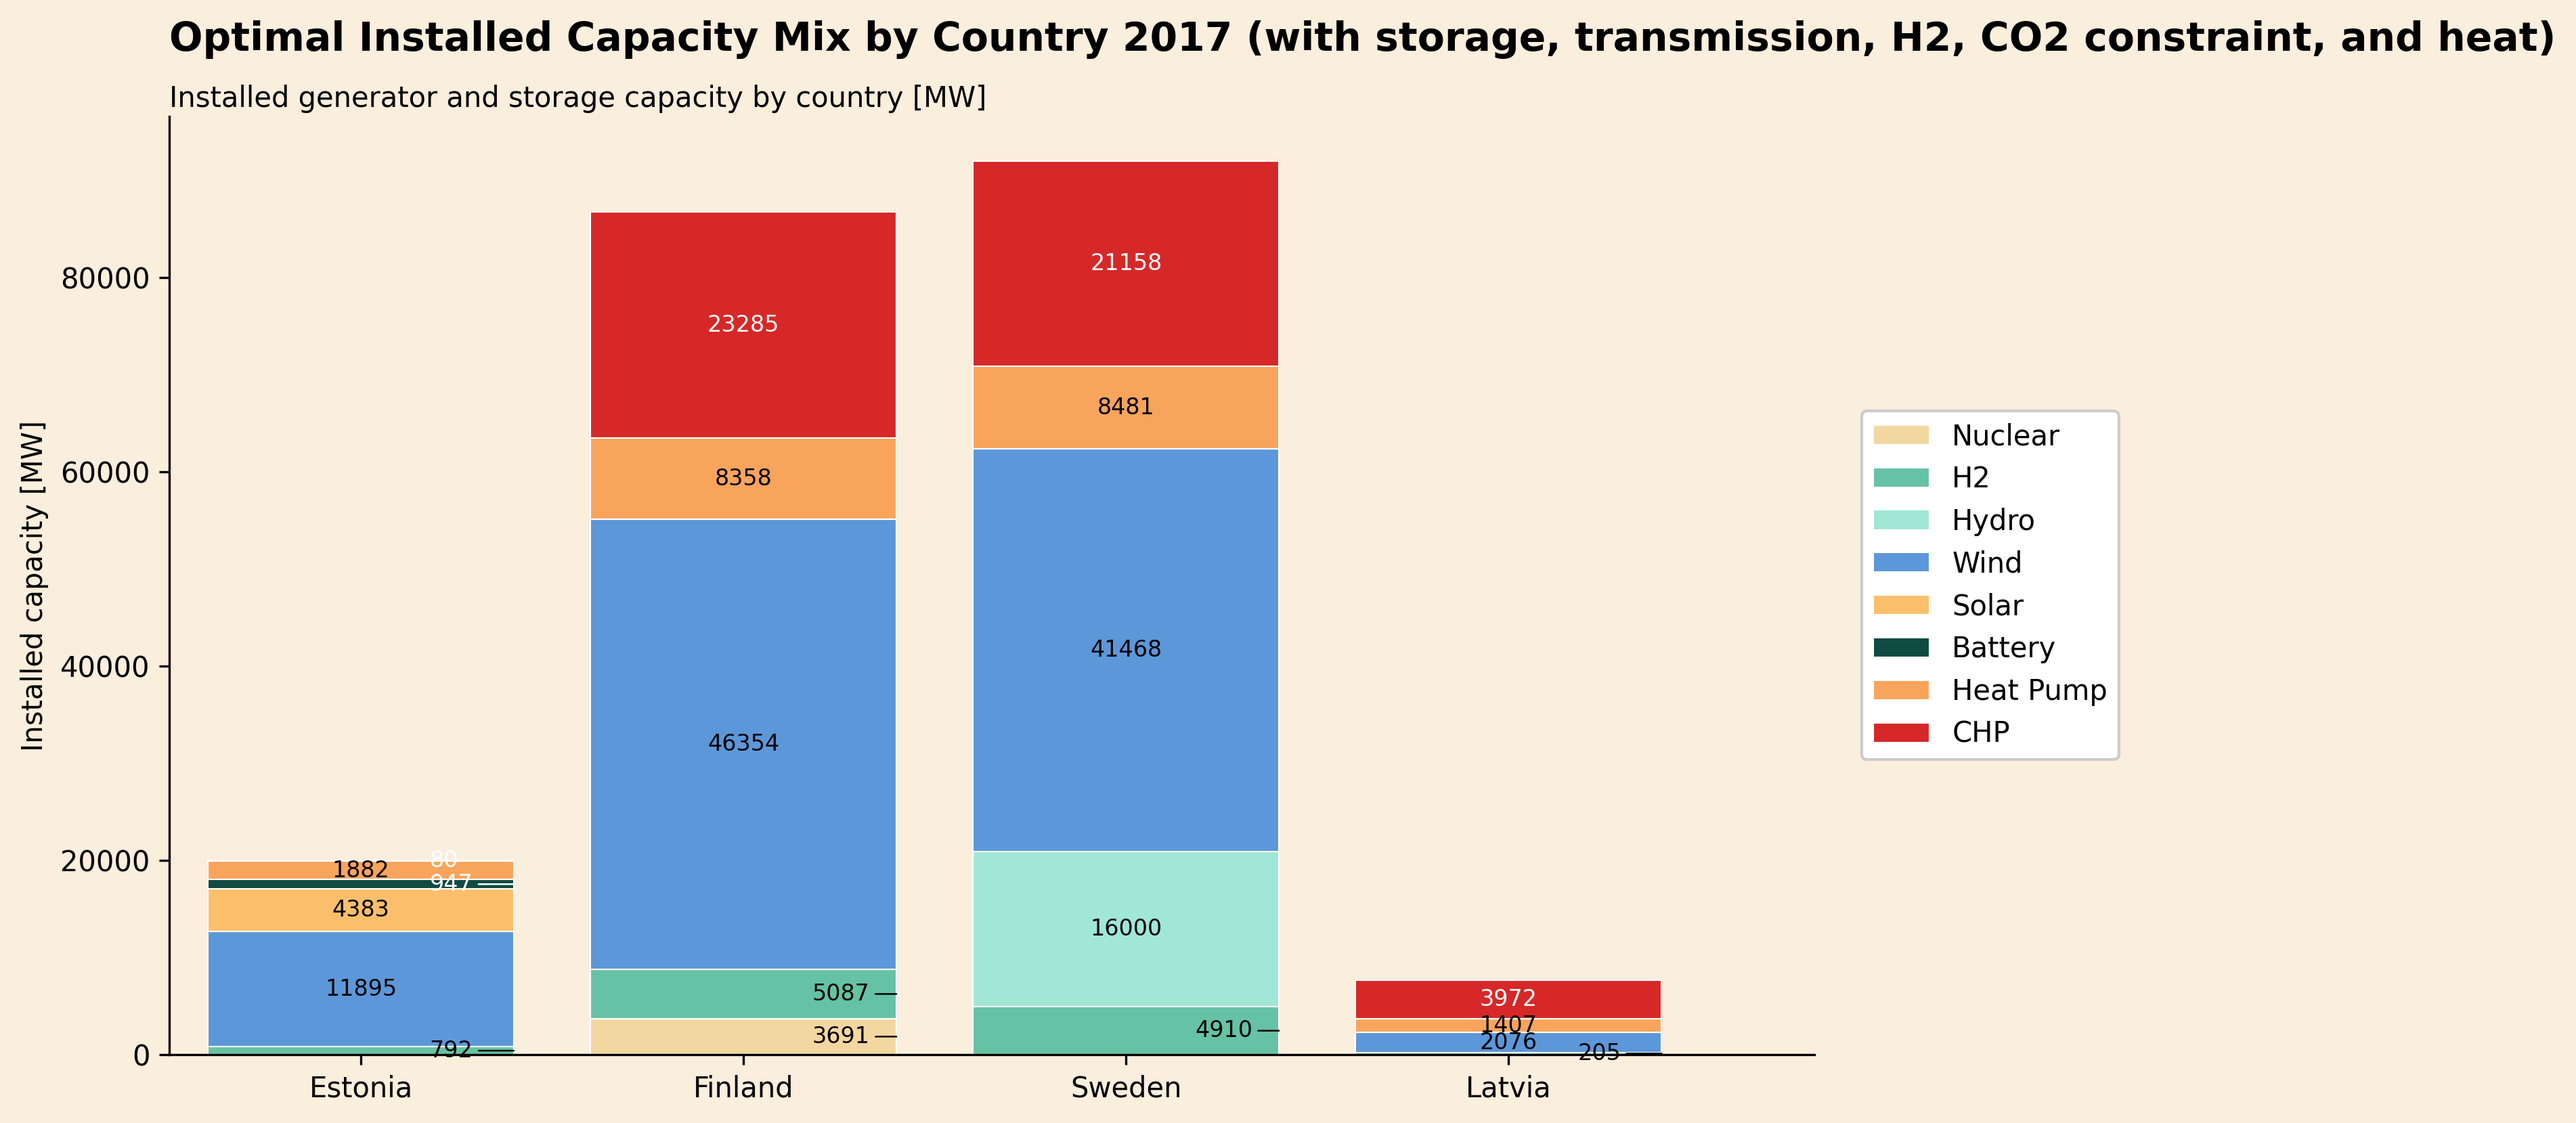
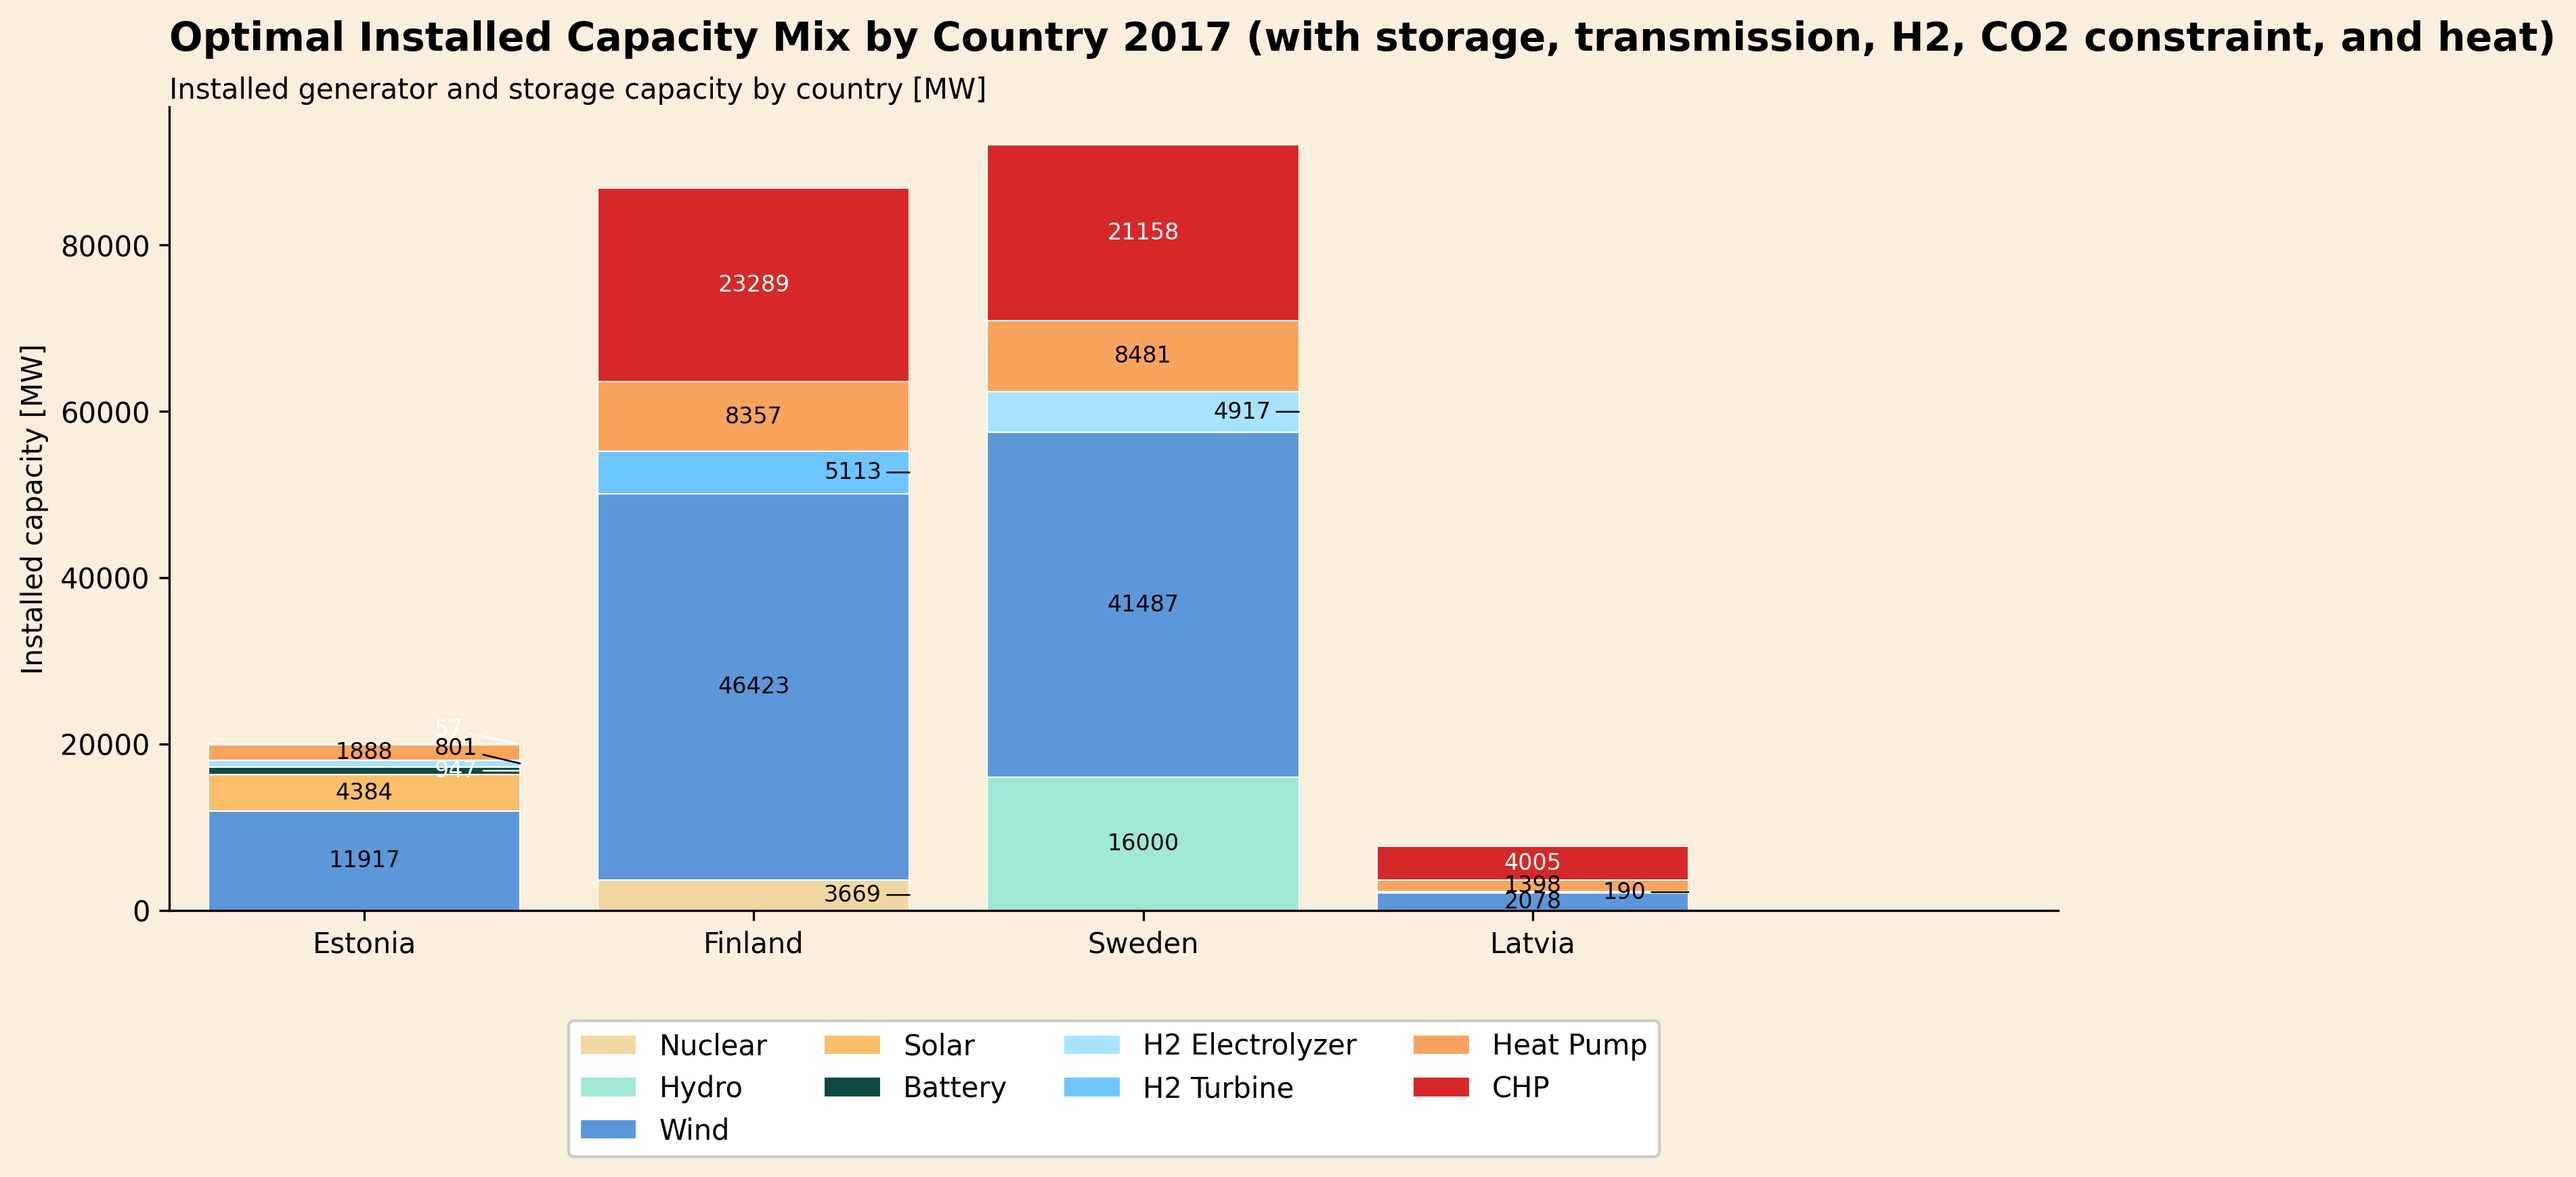
added hydrogen cost analysis

diff --git a/network.py b/network.py
@@ -16,7 +16,9 @@ class Network():
         self.cop = cop
         self.hours = hours
     
-    def build_network(self, storage=False, transmission=False, external=False, gas=False, h2=False, co2_limit=False, limit=None, h2_storage_cap_mwh=None, heat=None):
+    def build_network(self, storage=False, transmission=False, external=False, gas=False, h2=False, co2_limit=False, limit=None, 
+                      h2_storage_cap_mwh=None,  heat=None, 
+                      overnight_cost_electrolyzer=600_000, overnight_cost_h2_turbine=700_000, overnight_cost_h2_storage=25_000):
 
         # PyPSA requires timezone-naive snapshots.
         snapshots = pd.DatetimeIndex(self.hours)
@@ -107,7 +109,10 @@ class Network():
         if gas:
             self.add_gas_network()
         if h2:
-            self.add_h2_network_with_conversion(h2_storage_cap_mwh=h2_storage_cap_mwh)
+            self.add_h2_network_with_conversion(h2_storage_cap_mwh=h2_storage_cap_mwh, 
+                                                overnight_cost_electrolyzer=overnight_cost_electrolyzer, 
+                                                overnight_cost_h2_turbine=overnight_cost_h2_turbine, 
+                                                overnight_cost_h2_storage=overnight_cost_h2_storage)
         if co2_limit:
             self.add_co2_limit(limit)
         if heat:
@@ -364,7 +369,7 @@ class Network():
             constant=limit  # total CO2 limit (e.g. in tonnes)
         )
 
-    def add_h2_network_with_conversion(self, h2_storage_cap_mwh=None):
+    def add_h2_network_with_conversion(self, h2_storage_cap_mwh=None, overnight_cost_electrolyzer=600_000, overnight_cost_h2_turbine=700_000, overnight_cost_h2_storage=25_000):
 
         countries = ["Estonia", "Latvia", "Sweden", "Finland"]
 
@@ -397,12 +402,12 @@ class Network():
         # --- Hydrogen system CAPEX assumptions (2017-based, EU-consistent) ---
         
 
-        capital_cost_electrolyzer = annuity(20, 0.07) * 600_000 * (1 + 0.033)   # €/MW-year
+        capital_cost_electrolyzer = annuity(20, 0.07) * overnight_cost_electrolyzer * (1 + 0.033)   # €/MW-year
 
-        capital_cost_h2_turbine = annuity(25, 0.07) * 700_000 * (1 + 0.033)     # €/MW-year
+        capital_cost_h2_turbine = annuity(25, 0.07) * overnight_cost_h2_turbine * (1 + 0.033)     # €/MW-year
         # (hydrogen gas turbine, based on 500–900 USD/kW range)
 
-        h2_storage_capital_cost = annuity(30, 0.07) * 25_000 * (1 + 0.033)      # €/MWh_H2-year
+        h2_storage_capital_cost = annuity(30, 0.07) * overnight_cost_h2_storage * (1 + 0.033)      # €/MWh_H2-year
         # (~1000 USD/kg H2 ≈ 25,000 €/MWh)
         
         capital_cost_h2_pipeline = 1 #annuity(40, 0.07) * 100_000 * (1 + 0.033)
@@ -1049,12 +1054,50 @@ if __name__ == "__main__":
     # co2_price = network.network.global_constraints.mu
     # print(co2_price)
     
-    # i) Heat network analysis
-    network = Network(load, wind_cf, solar_cf, hours=hours, heat_demand=heat_demand, cop=cop)
-    network.build_network(storage=True, transmission=True, external=True, heat=True)
-    network.optimize_network()
-    dispatch, capacities = network.save_results()
-    plot_capacity_mix_by_country(capacities, f"Optimal Installed Capacity Mix by Country 2017 (with Storage, Transmission and Heat)", show=False, save=True)
+    # # i) Heat network analysis
+    # network = Network(load, wind_cf, solar_cf, hours=hours, heat_demand=heat_demand, cop=cop)
+    # network.build_network(storage=True, transmission=True, external=True, heat=True)
+    # network.optimize_network()
+    # dispatch, capacities = network.save_results()
+    # plot_capacity_mix_by_country(capacities, f"Optimal Installed Capacity Mix by Country 2017 (with Storage, Transmission and Heat)", show=False, save=True)
     
+    # j) Hydrogen network analysis
     
+    over_night_cost_electrolyzer = 600_000
+    over_night_cost_h2_turbine = 700_000
+    over_night_cost_h2_storage = 25_000
     
+    electrolyzer_scenarios = [over_night_cost_electrolyzer*0.5, over_night_cost_electrolyzer*0.25, over_night_cost_electrolyzer*0.05]
+    h2_turbine_scenarios = [over_night_cost_h2_turbine*0.5, over_night_cost_h2_turbine*0.25, over_night_cost_h2_turbine*0.05]
+    h2_storage_scenarios = [over_night_cost_h2_storage*0.5, over_night_cost_h2_storage*0.25, over_night_cost_h2_storage*0.05]
+    
+    scenario_labels = ["50% reduction", "75% reduction", "95% reduction"]
+    results = []
+        
+    for scenario in range(len(electrolyzer_scenarios)):
+        
+        network = Network(load, wind_cf, solar_cf, hours=hours, heat_demand=heat_demand, cop=cop)
+
+        network.build_network(storage=True, 
+                              transmission=True, 
+                              external=True, 
+                              h2=True, heat=True,
+                              overnight_cost_electrolyzer=electrolyzer_scenarios[scenario], 
+                              overnight_cost_h2_turbine=h2_turbine_scenarios[scenario], 
+                              overnight_cost_h2_storage=h2_storage_scenarios[scenario])
+        
+        network.optimize_network()
+        
+        dispatch, capacities = network.save_results()
+        
+        results.append(
+             {"scenario": scenario_labels[scenario],
+            "electrolyzer_cost": electrolyzer_scenarios[scenario],
+            "h2_turbine_cost": h2_turbine_scenarios[scenario],
+            "h2_storage_cost": h2_storage_scenarios[scenario],
+            "dispatch": dispatch,
+            "capacities": capacities,
+            }          
+             )
+
+    plot_h2_scenarios_by_country(results, f"Optimal Installed Capacity Mix by Country 2017 under Different Hydrogen Cost Scenarios", show=True, save=False)

diff --git a/main.py b/main.py
@@ -5,13 +5,14 @@ from network import Network
 from helper import *
 
 ### SECTION CONTROLS ###
-RUN_A_C = True # with and without storage single node 
+RUN_A_C = False # with and without storage single node 
 RUN_D = False # + transmission 
 RUN_E = False # imbalances
 RUN_F = False # CO2 limit analysis
 RUN_G = False # H2 network
 RUN_H = False # CO2 constraint
-RUN_I = False # heat sector
+RUN_I = False  # heat sector
+RUN_J = True  # sensitivity analysis on hydrogen technology costs
 
 ### LOADING DATA ###
 
@@ -404,9 +405,7 @@ if RUN_I:
     network.optimize_network()
     dispatch, capacities = network.save_results()
     
-    plot_capacity_mix_by_country_heat(capacities, f"Optimal Installed Capacity Mix by Country 2017 ({scenario_label})", show=False, save=True)
-    
-    plot_heat_dispatch(time_index=january_week,df=dispatch[january_week_mask],heat_demand=heat_demand["EE"][january_week_mask],node="Estonia",title=f"Estonia Heat Dispatch ({scenario_label})",show=False,save=True)
+    plot_capacity_mix_by_country(capacities, f"Optimal Installed Capacity Mix by Country 2017 ({scenario_label})", show=False, save=True)
     
     h2_pipeline_capacities = network.network.links.loc[
     network.network.links.index.str.contains("H2 Pipeline"),
@@ -416,3 +415,47 @@ if RUN_I:
     print("--------------------------------------------------------")
     print(f"Total H2 pipeline capacity installed: {h2_pipeline_capacities:.1f} MW")
     print("--------------------------------------------------------")
+
+if RUN_J:
+    
+    # j) Sensitivity analysis on hydrogen technology costs
+    
+    over_night_cost_electrolyzer = 600_000
+    over_night_cost_h2_turbine = 700_000
+    over_night_cost_h2_storage = 25_000
+    
+    electrolyzer_scenarios = [over_night_cost_electrolyzer*0.50, over_night_cost_electrolyzer*0.25, over_night_cost_electrolyzer*0.05]
+    h2_turbine_scenarios = [over_night_cost_h2_turbine*0.50, over_night_cost_h2_turbine*0.25, over_night_cost_h2_turbine*0.05]
+    h2_storage_scenarios = [over_night_cost_h2_storage*0.50, over_night_cost_h2_storage*0.25, over_night_cost_h2_storage*0.05]
+    
+    scenario_labels = ["50% reduction", "75% reduction", "95% reduction"]
+    results = []
+        
+    for scenario in range(len(electrolyzer_scenarios)):
+        
+        network = Network(load, wind_cf, solar_cf, hours=hours, heat_demand=heat_demand, cop=cop)
+
+        network.build_network(storage=True, 
+                              transmission=True, 
+                              external=True, 
+                              h2=True, heat=True,
+                              overnight_cost_electrolyzer=electrolyzer_scenarios[scenario], 
+                              overnight_cost_h2_turbine=h2_turbine_scenarios[scenario], 
+                              overnight_cost_h2_storage=h2_storage_scenarios[scenario])
+        
+        network.optimize_network()
+        
+        dispatch, capacities = network.save_results()
+        
+        results.append(
+             {"scenario": scenario_labels[scenario],
+            "electrolyzer_cost": electrolyzer_scenarios[scenario],
+            "h2_turbine_cost": h2_turbine_scenarios[scenario],
+            "h2_storage_cost": h2_storage_scenarios[scenario],
+            "dispatch": dispatch,
+            "capacities": capacities,
+            }          
+             )
+
+    
+    plot_h2_scenarios_by_country(results, f"Optimal Installed Capacity Mix by Country 2017 under Different Hydrogen Cost Scenarios", show=False, save=True)

diff --git a/plotter.py b/plotter.py
@@ -1265,6 +1265,98 @@ def plot_h2_capacity_mix_by_country(network, title, show=False, save=True):
 
     if show:
         plt.show()
+
+
+def plot_h2_scenarios_by_country(results, title, show=False, save=True):
+
+    colors, background_color = color_palette()
+
+    countries = ["Estonia", "Finland", "Sweden", "Latvia"]
+    scenario_labels = [r["scenario"] for r in results]
+
+    # Initialize data containers
+    techs = ["Electrolyzer", "H2 Turbine", "H2 Storage"]
+    data = {
+        tech: pd.DataFrame(0.0, index=countries, columns=scenario_labels)
+        for tech in techs
+    }
+
+    # Fill data
+    for result in results:
+        scen = result["scenario"]
+        capacities = result["capacities"]
+
+        for asset_name, row in capacities.iterrows():
+            if not isinstance(asset_name, str):
+                continue
+
+            country = next((c for c in countries if asset_name.endswith(c)), None)
+            if country is None:
+                continue
+
+            if "Electrolyzer" in asset_name:
+                data["Electrolyzer"].loc[country, scen] += row.get("p_nom_opt", 0) or 0
+
+            elif "H2 Turbine" in asset_name:
+                data["H2 Turbine"].loc[country, scen] += row.get("p_nom_opt", 0) or 0
+
+            elif "H2 Storage" in asset_name:
+                data["H2 Storage"].loc[country, scen] += row.get("e_nom_opt", 0) or 0
+
+    # Convert storage to GWh
+    data["H2 Storage"] /= 1000
+
+    # ---- Plot ----
+    fig, axes = plt.subplots(1, 3, figsize=(12, 4), sharex=True)
+    fig.patch.set_facecolor(background_color)
+
+    x = np.arange(len(countries))
+    bar_width = 0.25
+
+    scenario_colors = [colors[10], colors[14], colors[9]]
+
+    panel_info = [
+        ("Electrolyzer", "Electrolyzer [MW]"),
+        ("H2 Turbine", "H2 turbine [MW]"),
+        ("H2 Storage", "H2 storage [GWh]"),
+    ]
+
+    for ax, (tech, ylabel) in zip(axes, panel_info):
+        ax.set_facecolor(background_color)
+
+        for i, scen in enumerate(scenario_labels):
+            values = data[tech][scen].values
+
+            ax.bar(
+                x + (i - 1) * bar_width,
+                values,
+                width=bar_width,
+                label=scen,
+                color=scenario_colors[i],
+                edgecolor="white",
+                linewidth=0.5,
+            )
+
+        ax.set_title(tech, fontweight="bold")
+        ax.set_ylabel(ylabel)
+        ax.set_xticks(x)
+        ax.set_xticklabels(countries, rotation=30, ha="right")
+
+        ax.spines["top"].set_visible(False)
+        ax.spines["right"].set_visible(False)
+
+    # Single legend (saves space)
+    axes[0].legend(loc="upper left", frameon=True, facecolor="white")
+
+    fig.suptitle(title, fontsize=13, fontweight="bold", x=0.01, ha="left")
+    fig.tight_layout()
+
+    if save:
+        fig_title = title.replace(" ", "_").lower()
+        save_plot(fig_title)
+
+    if show:
+        plt.show()
         
 def plot_dispatch(time_index, df, load, title, show=False, save=True,
                   power_axis_max=None, soc_axis_max=None):
@@ -2264,8 +2356,7 @@ def plot_heat_dispatch(time_index, df, heat_demand, node, title,
     if show:
         plt.show()
         
-    
-def plot_capacity_mix_by_country_heat(capacities, title, show=False, save=True):
+
 
     colors, background_color = color_palette()
 
